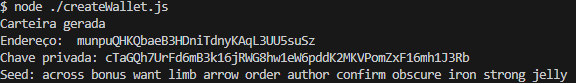
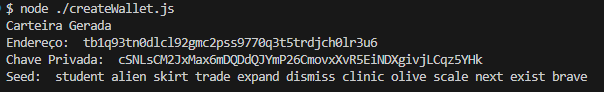
feat: adjust the dependencies and the code to genreate a valide wallet

diff --git a/src/createWallet.js b/src/createWallet.js
@@ -1,35 +1,27 @@
 //Author: Giancarlo Vieira de Castro
+const bip39 = require('bip39');
+const bitcoin = require('bitcoinjs-lib');
+const BIP32Factory = require('bip32').default;
+const ecc = require('tiny-secp256k1');
 
-//importando as dependencias
-const bip32 = require('bip32')
-const bip39 = require('bip39')
-const bitcoin = require('bitcoinjs-lib')
+const bip32 = BIP32Factory(ecc);
 
-//definir a rede
-//bitcoin - rede principal - mainnet
-//testnet - rede de teste - tesnet
-const network = bitcoin.networks.testnet
+const network = bitcoin.networks.testnet; // Rede testnet
+const path = `m/84'/1'/0'/0/0`;
 
-//derivação de carteiras HD
-const path = `m/49'/1'/0'/0` 
+let mnemonic = bip39.generateMnemonic(); // Gerar uma frase mnemônica
+const seed = bip39.mnemonicToSeedSync(mnemonic); // Converter a mnemônica em uma seed
 
-//criando o mnemonic para a seed (palavras de senha)
-let mnemonic = bip39.generateMnemonic()
-const seed = bip39.mnemonicToSeedSync(mnemonic)
+let root = bip32.fromSeed(seed, network);
 
-//criando a raiz da cartiera HD
-let root = bip32.fromSeed(seed, network)
+let node = root.derivePath(path);
 
-//criando uma conta - par pvt-pub keys
-let account = root.derivePath(path)
-let node = account.derive(0).derive(0)
-
-let btcAddress = bitcoin.payments.p2pkh({
+let btcAddress = bitcoin.payments.p2wpkh({
     pubkey: node.publicKey,
-    network: network,
-}).address
+    network: network
+}).address;
 
-console.log("Carteira gerada")
-console.log("Endereço: ", btcAddress)
-console.log("Chave privada:", node.toWIF())
-console.log("Seed:", mnemonic)
+console.log("Carteira Gerada");
+console.log("Endereço: ", btcAddress);
+console.log("Chave Privada: ", node.toWIF());
+console.log("Seed: ", mnemonic);
